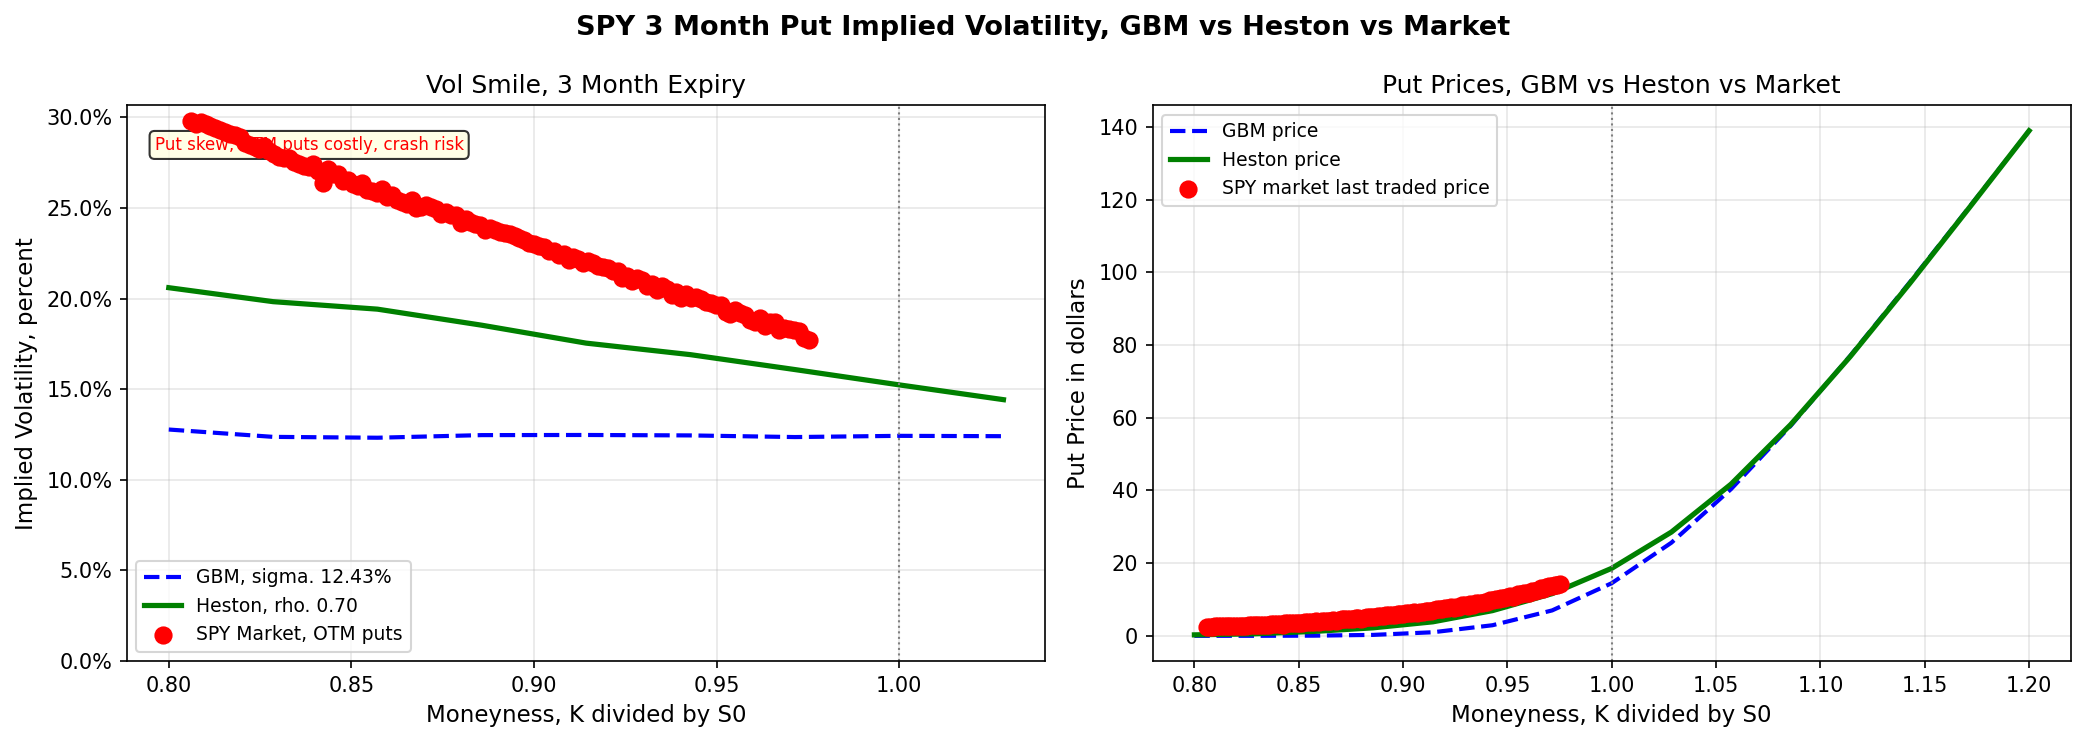
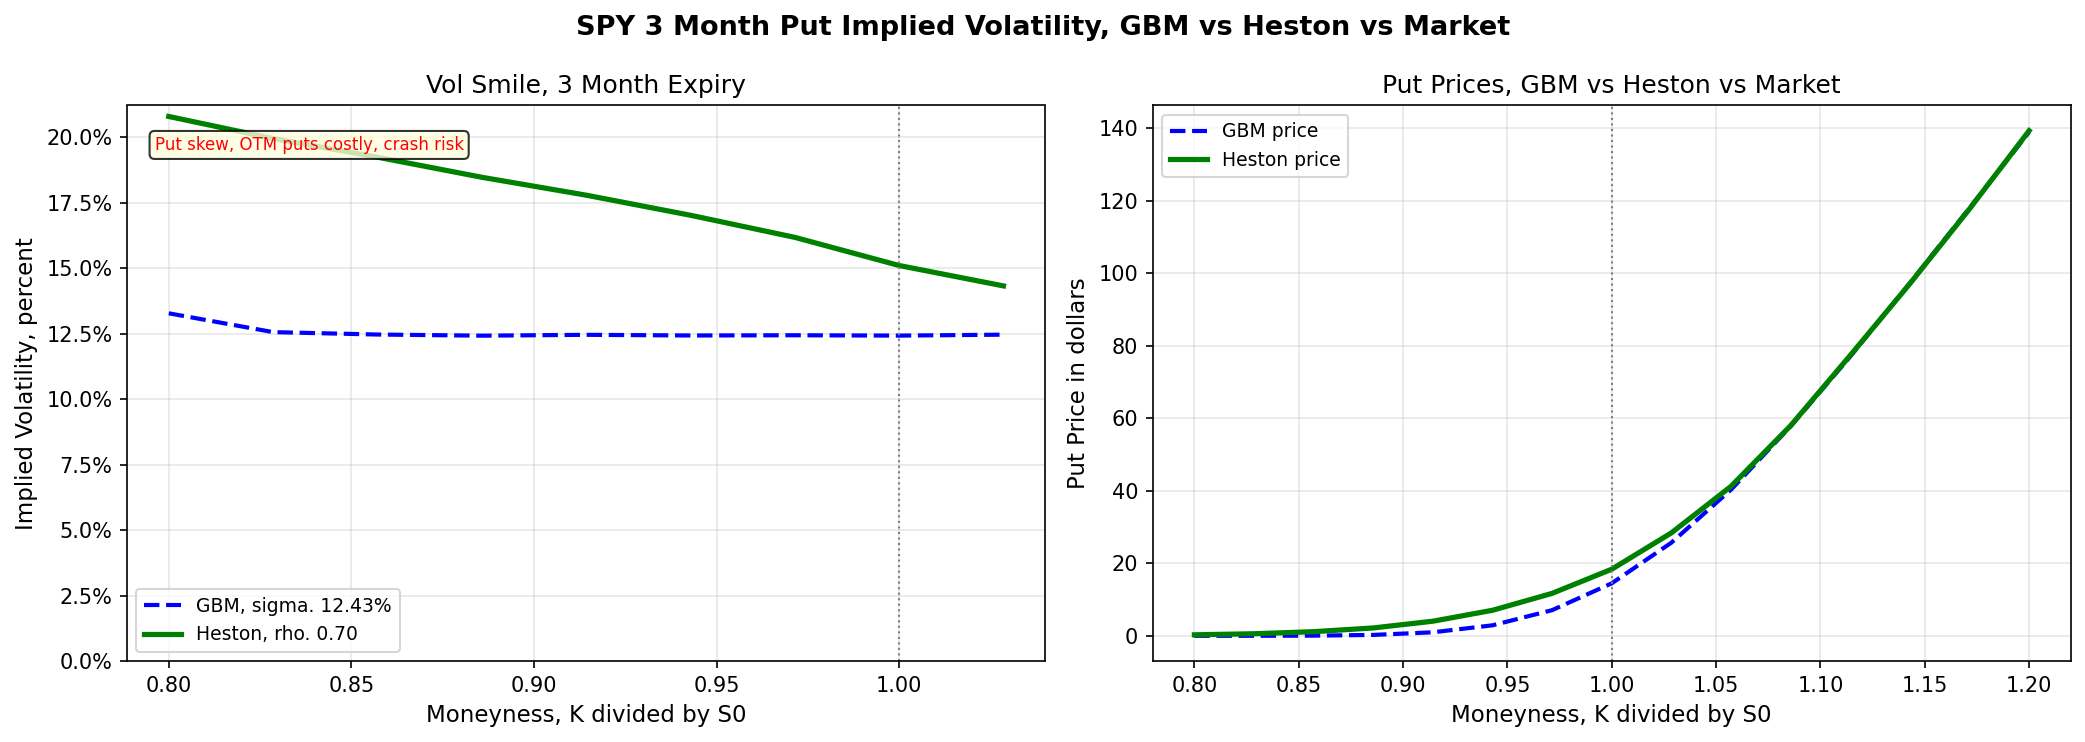
could make some changes in future

diff --git a/day7_market_data.py b/day7_market_data.py
@@ -102,6 +102,7 @@ r = 0.045  # approximate risk-free rate (Fed funds)
 
  
 all_results = {}  # expiry -> cleaned DataFrame with recovered IV
+all_T = {}         # expiry -> T, stored separately so empty results don't crash lookups
  
 for exp in chosen_expiries:
     T = days_to_expiry(exp) / 365.0
@@ -115,18 +116,44 @@ for exp in chosen_expiries:
     print(f"   Puts raw rows: {len(puts)}, Calls raw rows: {len(calls)}")
  
     # ── Clean puts ──
+    # yfinance's volume and openInterest columns have both proven unreliable
+    # in practice (frequently 0/NaN even for genuinely liquid SPY contracts,
+    # likely a data-feed quirk rather than true illiquidity). Rather than
+    # filter on those, we keep any contract with a usable price (mid if a
+    # live bid/ask exists, else lastPrice) and a sane strike range, then
+    # rely on the rolling-median outlier filter below to remove any quotes
+    # that are actually stale/mispriced.
+    n0 = len(puts)
     puts = puts.dropna(subset=["lastPrice", "impliedVolatility"])
-    puts = puts[puts["volume"] > 10]                          # liquidity filter
-    puts = puts[puts["lastPrice"] > 0]
-    puts = puts[puts["strike"].between(0.75 * S0, 1.10 * S0)]  # near-the-money
-    puts = puts[puts["lastPrice"] > puts["strike"].apply(lambda K: max(K - S0, 0))]  # above intrinsic
- 
+    n1 = len(puts)
+    puts = puts.copy()
+    has_quote = (puts["bid"] > 0) & (puts["ask"] > 0)
+    puts["mid"] = np.where(has_quote, (puts["bid"] + puts["ask"]) / 2, puts["lastPrice"])
+    puts = puts[puts["mid"] > 0]
+    n2 = len(puts)
+    puts = puts[puts["strike"].between(0.75 * S0, 1.10 * S0)]
+    n3 = len(puts)
+    puts = puts[puts["mid"] > puts["strike"].apply(lambda K: max(K - S0, 0))]
+    n4 = len(puts)
+    print(f"   Put filter funnel: raw={n0} -> dropna={n1} -> mid>0={n2} -> "
+          f"moneyness={n3} -> above_intrinsic={n4}  (live quote used for "
+          f"{int(has_quote.reindex(puts.index, fill_value=False).sum())} of these)")
+
     # ── Clean calls ──
+    m0 = len(calls)
     calls = calls.dropna(subset=["lastPrice", "impliedVolatility"])
-    calls = calls[calls["volume"] > 10]
-    calls = calls[calls["lastPrice"] > 0]
+    m1 = len(calls)
+    calls = calls.copy()
+    has_quote_c = (calls["bid"] > 0) & (calls["ask"] > 0)
+    calls["mid"] = np.where(has_quote_c, (calls["bid"] + calls["ask"]) / 2, calls["lastPrice"])
+    calls = calls[calls["mid"] > 0]
+    m2 = len(calls)
     calls = calls[calls["strike"].between(0.90 * S0, 1.25 * S0)]
-    calls = calls[calls["lastPrice"] > calls["strike"].apply(lambda K: max(S0 - K, 0))]
+    m3 = len(calls)
+    calls = calls[calls["mid"] > calls["strike"].apply(lambda K: max(S0 - K, 0))]
+    m4 = len(calls)
+    print(f"   Call filter funnel: raw={m0} -> dropna={m1} -> mid>0={m2} -> "
+          f"moneyness={m3} -> above_intrinsic={m4}")
  
     dropped_puts = len(chain.puts) - len(puts)
     dropped_calls = len(chain.calls) - len(calls)
@@ -137,10 +164,10 @@ for exp in chosen_expiries:
     calls = calls.copy()
  
     puts["iv_bisection"] = puts.apply(
-        lambda row: iv_bisection(row["lastPrice"], S0, row["strike"], r, T, "put"), axis=1
+        lambda row: iv_bisection(row["mid"], S0, row["strike"], r, T, "put"), axis=1
     )
     calls["iv_bisection"] = calls.apply(
-        lambda row: iv_bisection(row["lastPrice"], S0, row["strike"], r, T, "call"), axis=1
+        lambda row: iv_bisection(row["mid"], S0, row["strike"], r, T, "call"), axis=1
     )
  
     puts["moneyness"] = puts["strike"] / S0
@@ -154,9 +181,34 @@ for exp in chosen_expiries:
     combined = pd.concat([puts, calls], ignore_index=True)
     combined = combined.dropna(subset=["iv_bisection"])
     combined = combined[combined["iv_bisection"] > 0]
+    combined = combined[combined["iv_bisection"] < 3.0]   # drop pathological solver outputs
+    combined = combined.sort_values("moneyness").reset_index(drop=True)
+
+    # Outlier smoothing: even with liquidity filters, a handful of quotes
+    # can still be stale/mispriced and show up as sharp spikes in the
+    # otherwise smooth skew curve. Drop points whose IV deviates too far
+    # from a rolling local median (computed separately per option_type so
+    # we don't compare puts against calls across the ATM boundary).
+    keep_mask = pd.Series(True, index=combined.index)
+    for opt_type in ("put", "call"):
+        sub = combined[combined["option_type"] == opt_type].sort_values("moneyness")
+        if len(sub) >= 5:
+            rolling_med = sub["iv_bisection"].rolling(5, center=True, min_periods=3).median()
+            deviation = (sub["iv_bisection"] - rolling_med).abs()
+            bad = deviation > 0.05   # more than 5 vol points off the local median
+            keep_mask.loc[sub.index[bad.fillna(False)]] = False
+    n_outliers = (~keep_mask).sum()
+    if n_outliers:
+        print(f"   Smoothing: dropped {n_outliers} contract(s) as local IV outliers "
+              f"(>5 vol pts from rolling median — likely stale/mispriced quotes).")
+    combined = combined[keep_mask].reset_index(drop=True)
  
     print(f"   Rows after IV recovery: {len(combined)}")
+    if combined.empty:
+        print(f"   WARNING: no contracts survived filtering for {exp} — "
+              f"likely thin volume on this expiry/strike range. Skipping in plots.")
     all_results[exp] = combined
+    all_T[exp] = T   # store separately so empty frames don't break downstream T lookups
  
  
 
@@ -171,8 +223,14 @@ fig.suptitle("SPY Implied Vol: Bisection Recovery vs yFinance Reported IV", font
  
 for ax, exp in zip(axes, chosen_expiries):
     df = all_results[exp]
-    T = df["T"].iloc[0]
- 
+    T = all_T[exp]
+
+    if df.empty:
+        ax.set_title(f"Expiry {exp}\n(T={T:.2f}yr) — no contracts passed filters", fontsize=10)
+        ax.text(0.5, 0.5, "No liquid quotes survived filtering",
+                ha="center", va="center", transform=ax.transAxes, fontsize=9, color="grey")
+        continue
+
     puts_df = df[df["option_type"] == "put"].sort_values("moneyness")
     calls_df = df[df["option_type"] == "call"].sort_values("moneyness")
  
@@ -207,8 +265,11 @@ colors_cycle = ["#1f77b4", "#ff7f0e", "#2ca02c", "#d62728"]
  
 for idx, exp in enumerate(chosen_expiries):
     df = all_results[exp]
+    if df.empty:
+        print(f"   Skipping {exp} in 3D surface plot — no surviving contracts.")
+        continue
     df_sorted = df.sort_values("moneyness")
-    T_val = df_sorted["T"].iloc[0]
+    T_val = all_T[exp]
  
     # Use all options, sorted by moneyness
     xs = df_sorted["moneyness"].values
@@ -245,7 +306,10 @@ print("-" * 60)
  
 for exp in chosen_expiries:
     df = all_results[exp]
-    T_val = df["T"].iloc[0]
+    T_val = all_T[exp]
+    if df.empty:
+        print(f"{exp:<14} {T_val:<8.3f} {'0':<6} {'no data':<18} {'no data'}")
+        continue
     # Near-ATM = moneyness closest to 1.0
     atm_idx = (df["moneyness"] - 1.0).abs().idxmin()
     atm_row = df.loc[atm_idx]
@@ -258,6 +322,5 @@ print("  Dealers short puts must hedge delta by selling spot → demand amplifie
 print("  Skew steepens for short expiries: near-term tail risk is more discrete.")
  
 print("\nDone! Outputs: spy_iv_overlay.png, spy_vol_surface.png")
-
 
 

diff --git a/compare.py b/compare.py
@@ -52,6 +52,19 @@ def get_spy_chain_iv(S0: float, r: float, T_target: float):
     chain["moneyness"] = chain["strike"] / S0
     chain["mid_price"] = (chain["bid"] + chain["ask"]) / 2
 
+    # Require a live, reasonably tight two-sided market. Falling back to
+    # lastPrice for quotes with no current bid/ask (or a very wide spread)
+    # is what produced jagged spikes in the recovered IV curve, since a
+    # stale lastPrice can sit far from the option's current fair value.
+    # Spread threshold loosened to 60% (from an initial 25%) since SPY
+    # near-term/far-OTM strikes can legitimately have wider quoted spreads
+    # even when liquid; 25% was dropping every contract.
+    n_before = len(chain)
+    has_quote   = (chain["bid"] > 0) & (chain["ask"] > 0)
+    tight_quote = has_quote & ((chain["ask"] - chain["bid"]) / chain["mid_price"] < 0.60)
+    chain = chain[tight_quote].copy()
+    print(f"Quote filter: {n_before} contracts -> {len(chain)} with live, reasonably tight two-sided markets.")
+
     print(f"Strikes surviving moneyness filter. {sorted(chain['strike'].tolist())}")
     print(f"Market, {len(chain)} OTM and near ATM put contracts available.")
 
@@ -63,38 +76,20 @@ def get_spy_chain_iv(S0: float, r: float, T_target: float):
     price_used    = []
 
     for _, row in chain.iterrows():
-        iv = None
-
-        if row["bid"] > 0 and row["ask"] > 0 and row["mid_price"] > 0:
-            iv = iv_bisection(row["mid_price"], S0, row["strike"], r, T_actual, option_type="put")
-            if iv is not None and IV_MIN < iv < IV_MAX:
-                derived_ivs.append(iv)
-                price_used.append(row["mid_price"])
-                continue
-
-        if row["lastPrice"] > 0:
-            iv = iv_bisection(row["lastPrice"], S0, row["strike"], r, T_actual, option_type="put")
-            if iv is not None and IV_MIN < iv < IV_MAX:
-                derived_ivs.append(iv)
-                price_used.append(row["lastPrice"])
-                continue
-
-        yf_iv = row["impliedVolatility"]
-        if IV_MIN < yf_iv < IV_MAX:
-            derived_ivs.append(yf_iv)
-            price_used.append(row["lastPrice"])
+        iv = iv_bisection(row["mid_price"], S0, row["strike"], r, T_actual, option_type="put")
+        if iv is not None and IV_MIN < iv < IV_MAX:
+            derived_ivs.append(iv)
+            price_used.append(row["mid_price"])
         else:
             derived_ivs.append(None)
-            price_used.append(row["lastPrice"])
+            price_used.append(row["mid_price"])
 
     chain["market_iv"]   = derived_ivs
     chain["price_used"]  = price_used
     chain = chain.dropna(subset=["market_iv"])
     chain = chain[(chain["market_iv"] > IV_MIN) & (chain["market_iv"] < IV_MAX)]
 
-    live = (chain["bid"] > 0).sum()
-    last = ((chain["bid"] == 0) & (chain["price_used"] > 0)).sum()
-    print(f"IV source breakdown. {live} from mid price, {last} from last traded price.")
+    print(f"Market IV recovered for {len(chain)} contracts from live mid-price quotes only.")
     print(f"Market IV range after filtering. {chain['market_iv'].min()*100:.1f}% to {chain['market_iv'].max()*100:.1f}%")
 
     return chain[["strike", "moneyness", "market_iv", "price_used", "impliedVolatility"]].reset_index(drop=True)
@@ -204,3 +199,6 @@ def run_comparison():
 
 if __name__ == "__main__":
     run_comparison()
+
+
+    

diff --git a/day7_synthetic.py b/day7_synthetic.py
@@ -1,10 +1,11 @@
+
 import numpy as np
 import matplotlib.pyplot as plt
 from mpl_toolkits.mplot3d import Axes3D
 from scipy.stats import norm
- 
-S0 = 476.0   # realistic SPY spot
-r  = 0.045
+
+S0 = 476.0   # illustrative SPY-like spot, NOT a live quote
+r  = 0.045   # illustrative risk-free rate, NOT a live quote
  
 def bs_price(S0, K, r, sigma, T, opt="call"):
     if T <= 0 or sigma <= 0:
@@ -65,8 +66,8 @@ axes = axes.flatten()
 colors = ["#1f77b4","#ff7f0e","#2ca02c","#d62728"]
  
 for i, (T, label, ax, c) in enumerate(zip(expiries, exp_labels, axes, colors)):
-    ax.plot(moneyness_grid, IV_surface[i]*100,   "o--", color=c, ms=4, lw=1.5, label="Market IV (yFinance)")
-    ax.plot(moneyness_grid, IV_recovered[i]*100, "s-",  color=c, ms=3, lw=2,   alpha=0.7, label="Bisection-recovered IV")
+    ax.plot(moneyness_grid, IV_surface[i]*100,   "o--", color=c, ms=4, lw=1.5, label="Synthetic 'true' smile (input)")
+    ax.plot(moneyness_grid, IV_recovered[i]*100, "s-",  color=c, ms=3, lw=2,   alpha=0.7, label="Bisection-recovered IV (output)")
     ax.axvline(1.0, color="grey", ls="--", alpha=0.5, label="ATM")
     ax.fill_between(moneyness_grid[moneyness_grid<1],
                     (IV_surface[i]*100)[moneyness_grid<1],
@@ -84,12 +85,12 @@ for i, (T, label, ax, c) in enumerate(zip(expiries, exp_labels, axes, colors)):
                 xytext=(0.82, 28), fontsize=6.5, color=c,
                 arrowprops=dict(arrowstyle="->", color=c, lw=0.8))
  
-fig.suptitle("SPY Implied Vol: Bisection Recovery vs Market IV\n(Synthetic SPY-calibrated data · put skew visible for K < S0)",
+fig.suptitle("Synthetic Vol Smile: Bisection Round-Trip Recovery Test\n(Hand-specified smile function — NOT real market data, see day7_market_data.py for that)",
              fontsize=12, fontweight="bold")
 plt.tight_layout()
-plt.savefig("spy_iv_overlay.png", dpi=150, bbox_inches="tight")
+plt.savefig("synthetic_iv_overlay.png", dpi=150, bbox_inches="tight")
 plt.close()
-print("[Saved] spy_iv_overlay.png")
+print("[Saved] synthetic_iv_overlay.png (synthetic data, see day7_market_data.py for real SPY data)")
  
 # 3D surface plot
 M_grid, T_grid = np.meshgrid(moneyness_grid, expiries)
@@ -108,12 +109,11 @@ for i, T in enumerate(expiries):
 ax3d.set_xlabel("Moneyness K/S0", labelpad=8, fontsize=10)
 ax3d.set_ylabel("Time to Expiry (yr)", labelpad=8, fontsize=10)
 ax3d.set_zlabel("Implied Vol (%)", labelpad=8, fontsize=10)
-ax3d.set_title("SPY Real Vol Surface — Put Skew Visible for K < S0\n"
-               "(IV rises for low strikes: crash-risk premium + dealer hedging demand)",
+ax3d.set_title("Synthetic Vol Surface — Put Skew by Construction\n"
+               "(Hand-specified smile function, NOT real market data)",
                fontsize=11, fontweight="bold")
 ax3d.view_init(elev=25, azim=-50)
 plt.tight_layout()
-plt.savefig("spy_vol_surface.png", dpi=150, bbox_inches="tight")
+plt.savefig("synthetic_vol_surface.png", dpi=150, bbox_inches="tight")
 plt.close()
-print("[Saved] spy_vol_surface.png")
-
+print("[Saved] synthetic_vol_surface.png (synthetic data, see day7_market_data.py for real SPY data)")